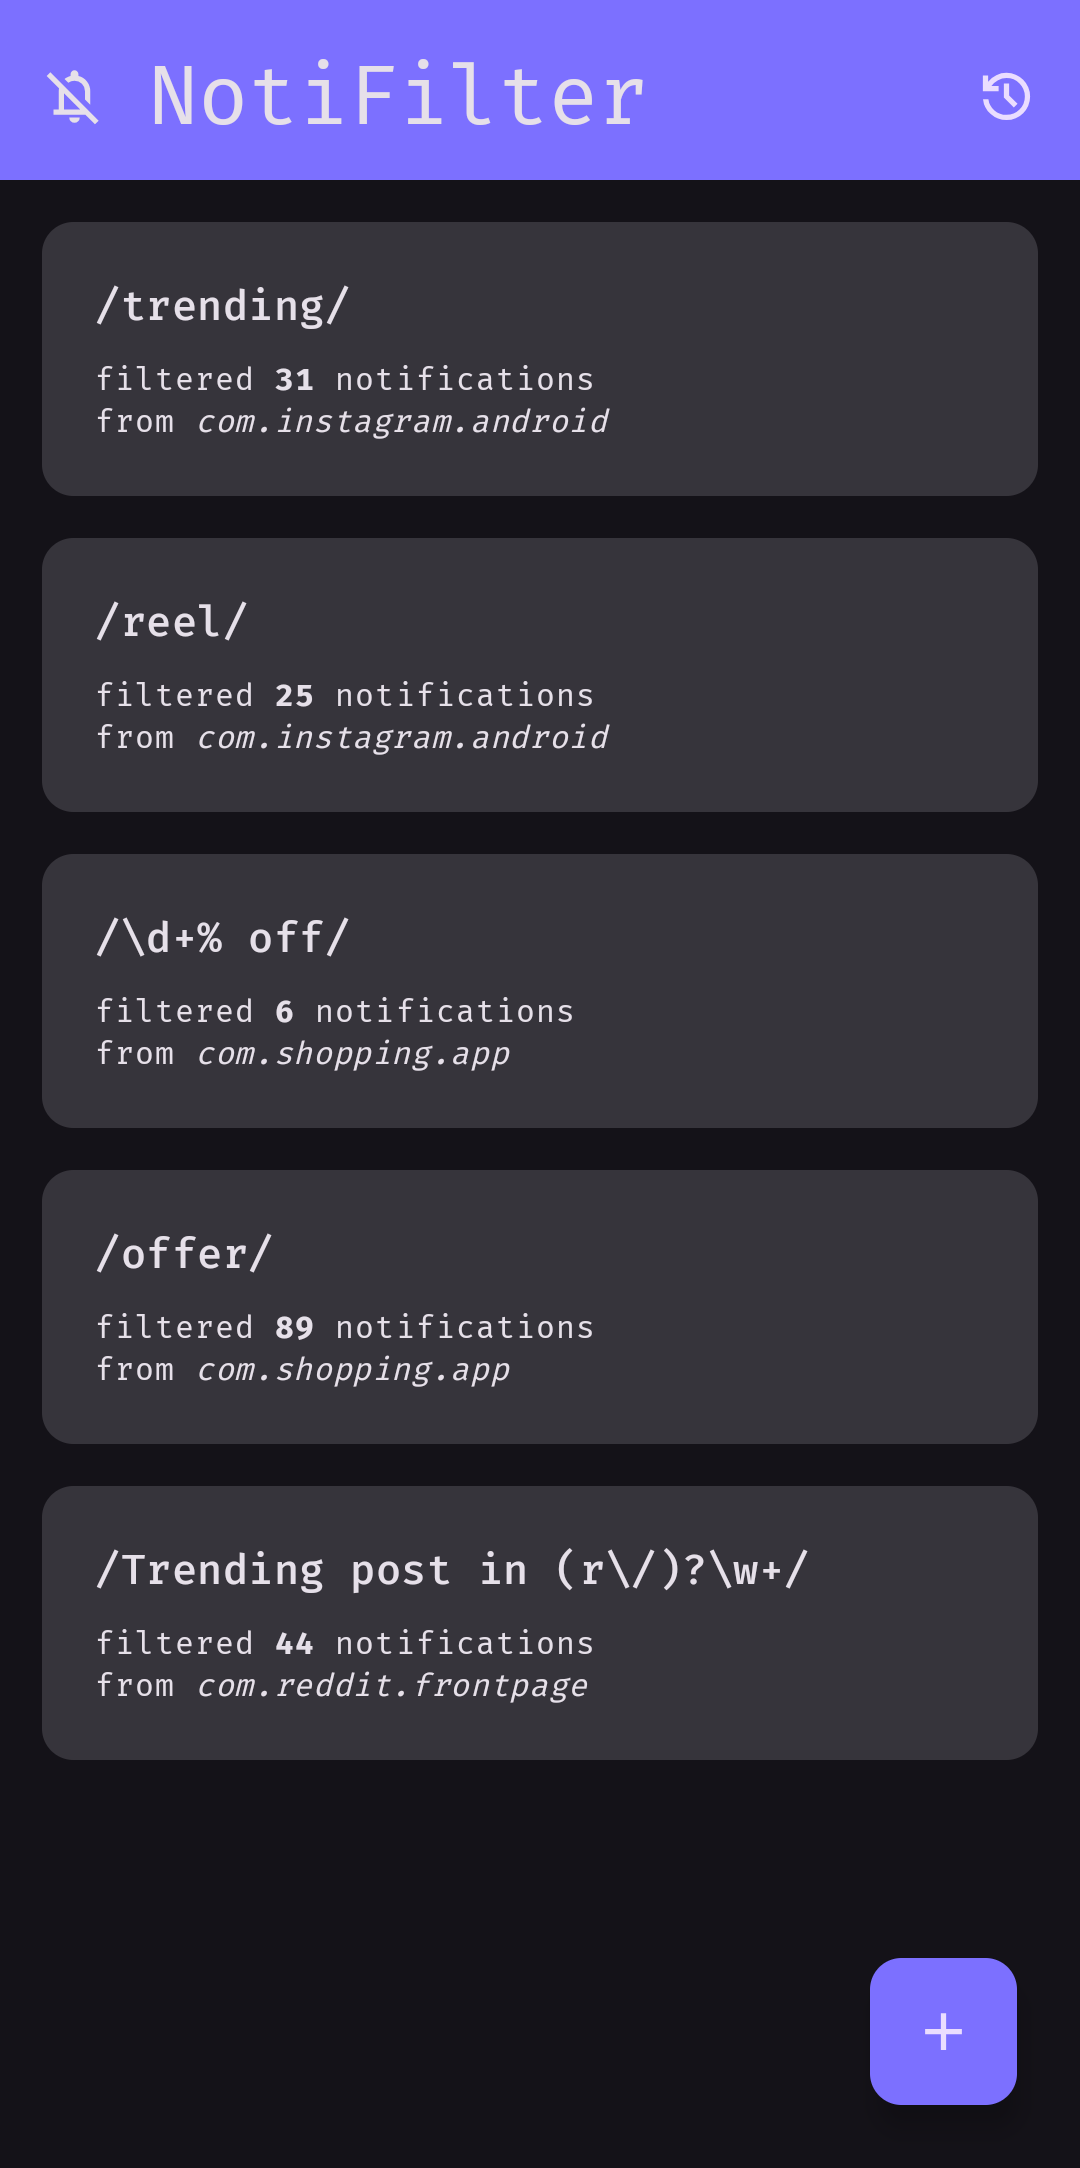
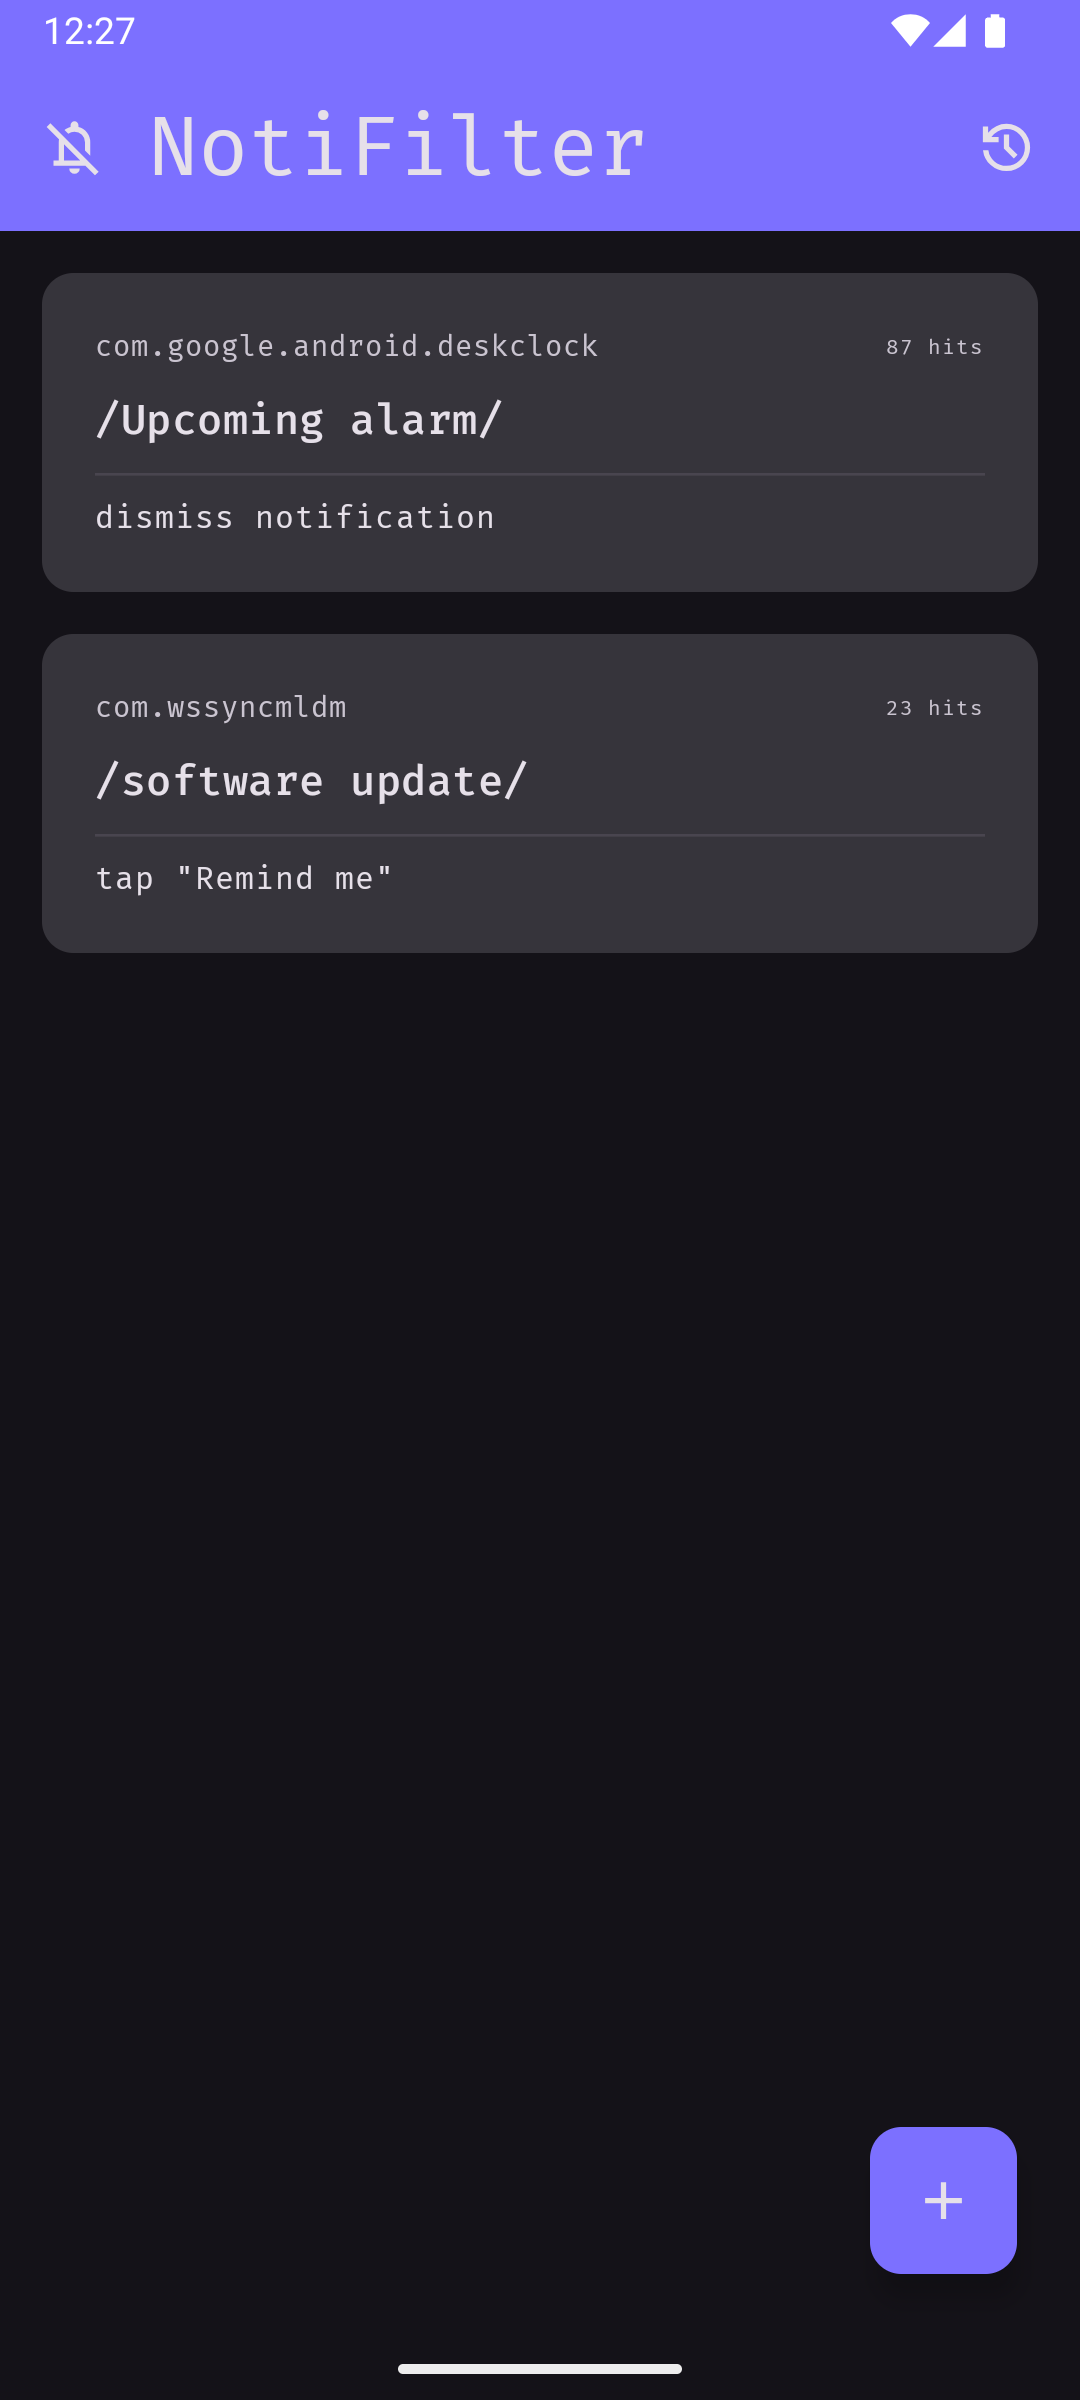
Update metadata

diff --git a/README.md b/README.md
@@ -4,8 +4,8 @@
 
 **Silence annoying notifications**
 
-NotiFilter listens to all device notifications and quietly dismisses the ones that match your
-filters.
+NotiFilter listens to all device notifications and quietly dismisses or taps the ones that match
+your filters.
 
 [<img src="https://f-droid.org/badge/get-it-on.png" alt="Get it on F-Droid" height="80">](https://f-droid.org/packages/co.adityarajput.notifilter) [<img src="https://github.com/user-attachments/assets/713d71c5-3dec-4ec4-a3f2-8d28d025a9c6" alt="Get it on Obtainium" height="80">](https://apps.obtainium.imranr.dev/redirect?r=obtainium://add/https://github.com/BURG3R5/NotiFilter)
 
@@ -17,6 +17,7 @@ filters.
 
 - **Filters** - Use [regex](https://regexr.com/) to precisely target annoying notifications from
   each app 🎯
+- **Actions** - Choose whether to tap a button in the notification or to dismiss it entirely ⚙
 - **History** - Recently dismissed notifications are stored (locally), just in case 😉
 - **Free, open-source & private**
     - No ads, subscriptions, or in-app purchases 🆓
